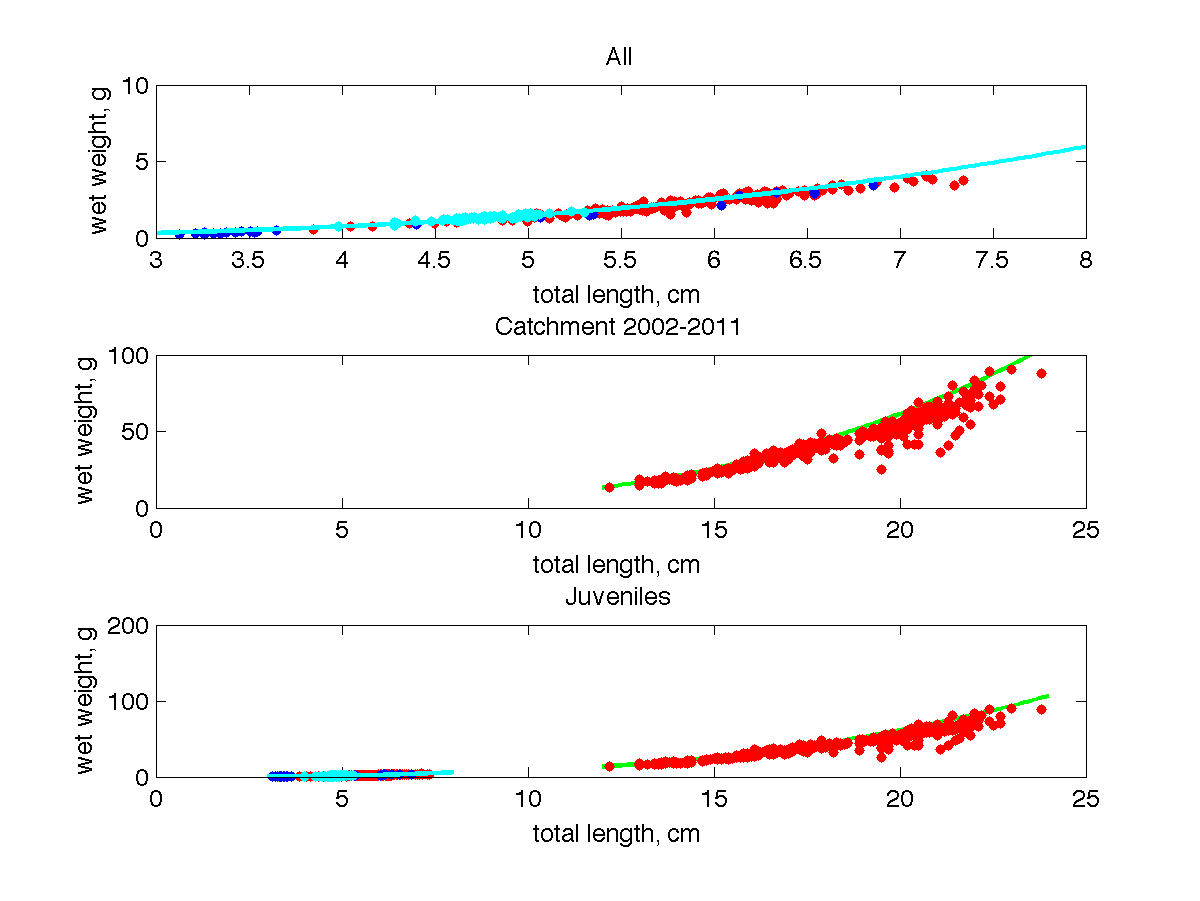
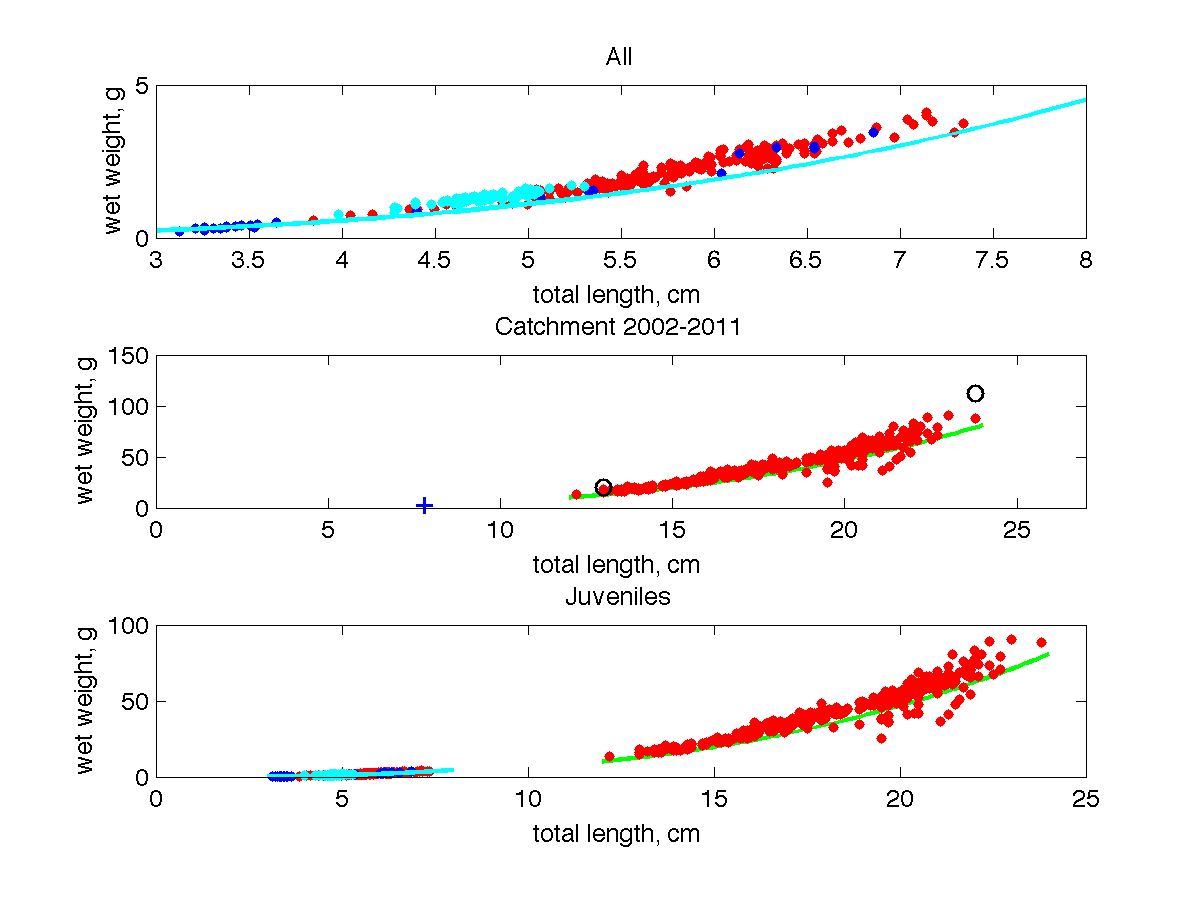
update of mydata

diff --git a/sardina_pilchardus_std/parscomp_st.m b/sardina_pilchardus_std/parscomp_st.m
@@ -1,0 +1,134 @@
+%% parscomp_st
+% computes compound parameters from primary parameters
+
+%%
+function cp = parscomp_st(par, chem)
+  % created 2013/07/08 by Bas Kooijman; modified 2015/01/17 Goncalo Marques
+  % modified 2015/04/25 Starrlight, Bas Kooijman (kap_X_P replaced by kap_P)
+  
+  %% Syntax
+  % cp = <../parscomp_st.m * parscomp_st*> (par, chem)
+  
+  %% Description
+  % Computes compound parameters from primary parameters that are frequently just
+  %
+  % Input
+  %
+  % * par : structure with values of primary parameters
+  % * chem : structure with values of chemical indices
+  %  
+  % Output
+  %
+  % * cp : structure with scaled quantities and compound parameters
+
+v2struct(par); v2struct(chem); % convert structures to variables
+
+if ~exist('p_Am','var')
+  p_Am = z * p_M/ kap;        % J/d.cm^2, {p_Am} spec assimilation flux
+end
+
+% -------------------------------------------------------------------------
+% Molecular weights:
+w_O = n_O' * [12; 1; 16; 14]; % g/mol, mol-weights for (unhydrated)  org. compounds
+w_X = w_O(1);
+w_V = w_O(2);
+%w_E = w_O(3);
+w_P = w_O(4);
+
+% -------------------------------------------------------------------------
+% Conversions and compound parameters cp
+
+M_V     = d_V/ w_V;            % mol/cm^3, [M_V], volume-specific mass of structure
+y_V_E   = mu_E * M_V/ E_G;     % mol/mol, yield of structure on reserve
+y_E_V   = 1/ y_V_E;            % mol/mol, yield of reserve on structure
+k_M     = p_M/ E_G;            % 1/d, somatic maintenance rate coefficient
+k       = k_J/ k_M;            % -, maintenance ratio
+E_m     = p_Am/ v;             % J/cm^3, reserve capacity [E_m]
+m_Em    = y_E_V * E_m / E_G;   % mol/mol, reserve capacity
+g       = E_G/ kap/ E_m ;      % -, energy investment ratio
+L_m     = v/ k_M/ g;           % cm, maximum length
+L_T     = p_T/ p_M ;           % cm, heating length (also applies to osmotic work)
+l_T     = L_T/ L_m;            % - , scaled heating length
+w       = m_Em * w_E * d_E/ d_V/ w_V; % -, contribution of ash free dry mass of reserve to total ash free dry biomass
+J_E_Am  = p_Am/ mu_E;          % mol/d.cm^2, {J_EAm}, max surface-spec assimilation flux
+
+if exist('kap_X','var') == 1
+y_E_X   = kap_X * mu_X/ mu_E;  % mol/mol, yield of reserve on food
+y_X_E   = 1/ y_E_X;            % mol/mol, yield of food on reserve
+p_Xm    = p_Am/ kap_X;         % J/d.cm^2, max spec feeding power
+J_X_Am  = y_X_E * J_E_Am;      % mol/d.cm^2, {J_XAm}, max surface-spec feeding flux
+end
+
+if exist('kap_P', 'var') == 1
+y_P_X   = kap_P * mu_X/ mu_P;  % mol/mol, yield of faeces on food 
+y_X_P   = 1/ y_P_X;            % mol/mol, yield of food on faeces
+end
+
+if exist('kap_P', 'var') == 1 && exist('kap_X', 'var') == 1
+y_P_E   = y_P_X/ y_E_X;          % mol/mol, yield of faeces on reserve
+%  Mass-power couplers
+  eta_XA = y_X_E/ mu_E;          % mol/J, food-assim energy coupler
+  eta_PA = y_P_E/ mu_E;          % mol/J, faeces-assim energy coupler
+  eta_VG = y_V_E/ mu_E;          % mol/J, struct-growth energy coupler
+  eta_O = [  -eta_XA   0         0;         % mol/J, mass-energy coupler
+	               0   0         eta_VG;    % used in: J_O = eta_O * p
+	          1/mu_E   -1/mu_E   -1/mu_E;
+	          eta_PA   0         0]; 
+end
+
+J_E_M   = p_M/ mu_E;          % mol/d.cm^3, [J_EM]
+J_E_T   = p_T/ mu_E;          % mol/d.cm^2, {J_ET}
+j_E_M   = k_M * y_E_V;        % mol/d.mol, spec somatic  maint costs
+j_E_J   = k_J * y_E_V;        % mol/d.mol, spec maturity maint costs
+kap_G   = mu_V * M_V/ E_G;    % -, growth efficiency
+E_V     = d_V * mu_V/ w_V;    % J/cm^3, [E_V] volume-specific energy of structure
+
+if exist('F_m','var') == 1
+K       = J_X_Am/ F_m;        % c-mol X/l, half-saturation coefficient
+end
+
+% -------------------------------------------------------------------------
+% Scaled maturity
+
+par_names = fields(par);
+mat_lev = par_names(strncmp(par_names, 'E_H', 3));
+mat_ind = strrep(mat_lev, 'E_H', '');  % maturity levels' indices
+
+for i = 1:length(mat_ind)
+  stri = mat_ind{i};
+  eval(['M_H', stri, '= E_H', stri, '/ mu_E;']);              % mmol, maturity at level i
+  eval(['U_H', stri, '= E_H', stri, '/ p_Am;']);              % cm^2 d, scaled maturity at level i
+  eval(['V_H', stri, '= U_H', stri, '/ (1 - kap);']);         % cm^2 d, scaled maturity at level i
+  eval(['v_H', stri, '= V_H', stri, '* g^2 * k_M^3/ v^2;']);  % -, scaled maturity density at level i
+  eval(['u_H', stri, '= U_H', stri, '* g^2 * k_M^3/ v^2;']);  % -, scaled maturity density at level i
+end
+
+% -------------------------------------------------------------------------
+% pack output:
+
+cp = v2struct(p_Am, w_X, w_V, w_E, w_P, M_V, y_V_E, y_E_V, ...
+    k_M, k, E_m, m_Em, g, L_m, L_T, l_T, w, ...
+    J_E_Am, J_E_M, J_E_T, j_E_M, j_E_J, kap_G, E_V);
+
+nameOfStruct2Update = 'cp';
+
+for i = 1:length(mat_ind)
+  stri = mat_ind{i};
+  eval(['cp = v2struct(M_H', stri, ', U_H', stri, ', V_H', stri, ', v_H', stri, ', u_H', stri, ', nameOfStruct2Update);']);
+end
+
+if exist('kap_P', 'var') == 1
+    cp = v2struct(y_P_X, y_X_P, nameOfStruct2Update);
+end
+
+if exist('kap_X', 'var') == 1
+    cp = v2struct(y_E_X, y_X_E, p_Xm, J_X_Am, nameOfStruct2Update);
+end
+
+if exist('kap_P', 'var') == 1 && exist('kap_X', 'var') == 1
+    cp = v2struct(y_P_E, eta_XA, eta_PA, eta_VG, eta_O, nameOfStruct2Update);
+end
+
+if exist('F_m', 'var') == 1
+    cp = v2struct(K, nameOfStruct2Update);                          
+end

diff --git a/sardina_pilchardus_std/mydata_Sardina_pilchardus.m b/sardina_pilchardus_std/mydata_Sardina_pilchardus.m
@@ -91,7 +91,9 @@ data.Wd0 = 3e-5;  units.Wd0 = 'g';    label.Wd0 = 'egg dry weight';    bibkey.Wd
 % Wd0 = 18 to 40 microg dry weight - see Cristina Nunes
 data.E0 = data.Wd0 * 29e3;  units.E0 = 'J';    label.E0 = 'egg energy content';    bibkey.E0 = {'Lask1962';'Nunes2015'} ;
 % Energy density of an egg between 20 and 30kJ /g dry weight Kalmer 2005
-% 
+%% !! should be consistent with <E> = mu_E/w_E
+ 
+
 % uni-variate data
 %------------------
 % Mene2003 - Chap. 5
@@ -1128,7 +1130,7 @@ LW_ad   = [ 12.2    14      0.63
             22.4	108    18.86];
 data.LW_ad(:,1) = LW_ad(:,1);
 data.LW_ad(:,2) = LW_ad(:,2) - LW_ad(:,3);          % remove the gonad 
-units.LW_ad = {'d', 'cm'};     label.LW_ad = {'total length', 'wet weight without gonads'};  bibkey.LW_ad = '';
+units.LW_ad = {'d', 'cm'};     label.LW_ad = {'total length', 'wet weight without gonads'};  bibkey.LW_ad = 'IPMA';
   temp.LW_ad = T_C + 15;  % K, temperature [LAURE: which temp? should we set it as a parameter?]
       
 
@@ -1165,6 +1167,7 @@ weight.tdw = 100 * weight.tdw;
       eval(['weight.', nm{i},' = 10 * weight.', nm{i}, ';']);
     end
  end
+ weight.Ri = 20 * weight.Ri;
  
 % uni-variate data: 
  weight.tL_juv1 = 10 * weight.tL_juv1;
@@ -1173,13 +1176,13 @@ weight.tdw = 100 * weight.tdw;
  weight.tL_juv4 = 10 * weight.tL_juv4;
  weight.tL_juv5 = 10 * weight.tL_juv5;
  weight.tL_juv6 = 10 * weight.tL_juv6;
- weight.tL_ad_f = 100 * weight.tL_ad_f ;    
+ weight.tL_ad_f = 10 * weight.tL_ad_f ;    
  %weight.tL_ad_m =  100 * weight.tL_ad_m;   
  weight.LW_juv4 = 10 * weight.LW_juv4;
  weight.LW_juv5 = 10 * weight.LW_juv5;
  weight.LW_juv6 = 10 * weight.LW_juv6;
- weight.LW_ad =  10  * weight.LW_ad;    
- weight.tE =  100  * weight.tE;    
+ weight.LW_ad =  100  * weight.LW_ad;    
+ weight.tE =  200  * weight.tE;    
 
 
 %% set pseudodata and respective weights
@@ -1190,11 +1193,11 @@ weight.tdw = 100 * weight.tdw;
 % the pseudodata and respective weights were set automatically with the function setpseudodata
 % if one wants to ovewrite one of the values it should always present an explanation
 % example:
-data.psd.kap_G = 0.81; 
-weight.psd.kap_G = 5 * weight.psd.kap_G;  % to correspond to old mydata_Sardina_pilchardus                 
+%data.psd.kap_G = 0.81; 
+%weight.psd.kap_G = 5 * weight.psd.kap_G;  % to correspond to old mydata_Sardina_pilchardus                 
 
 data.psd_dE = 0.4;      units.psd_dE = 'g/cm^3';    label.psd_dE = 'density of reserve';        bibkey.psd_dE = 'Fill';    
-weight.psd_dE = 100 * 1 ./ data.psd_dE^2;
+weight.psd_dE = 50 * 1 ./ data.psd_dE^2;
 
  
 %% pack data and txt_data for output

diff --git a/sardina_pilchardus_std/results_Sardina_pilchardus.m b/sardina_pilchardus_std/results_Sardina_pilchardus.m
@@ -115,10 +115,13 @@ function results_Sardina_pilchardus(txt_par, par, chem, metapar, txt_data, data)
   title('Mene2003')
 
   subplot(2,3,5)
+  hold on
+  plot(data.ap, data.Lp, 'ok', Prd_data.ap, Prd_data.Lp, '+b')
+  plot(data.am, data.Li, 'ok', Prd_data.am, Prd_data.Li, '+b')
   plot(tL_ad_f(:,1), tL_ad_f(:,2), '.k', tLad, ELad, 'k')
   xlabel('age, d')
   ylabel('length, cm')
-  axis([0 2200 0 27])
+  axis([0 Prd_data.am 0 27])
   title('Silv')
  
   subplot(2,3,6)
@@ -152,12 +155,15 @@ function results_Sardina_pilchardus(txt_par, par, chem, metapar, txt_data, data)
 
   
   subplot(3,1,2)
+  hold on
   plot(L, EW, 'g', LW_ad(:,1), LW_ad(:,2), '.r', 'markersize', 15, 'linewidth', 2)
+  plot(data.Lp, data.Wwp, 'ok', Prd_data.Lp, Prd_data.Wwp, '+b', 'markersize', 8, 'linewidth', 1.5)
+  plot(data.Li, data.Wwi, 'ok', Prd_data.Li, Prd_data.Wwi, '+b','markersize', 8, 'linewidth', 1.5)
   set(gca, 'Fontsize', 12, 'Box', 'on')
   xlabel('total length, cm')
   ylabel('wet weight, g')
   title('Catchment 2002-2011')
-  axis([0 25 0 100])
+  axis([0 27 0 150])
   
   subplot(3,1,3)
   hold on

diff --git a/sardina_pilchardus_std/run_Sardina_pilchardus.m b/sardina_pilchardus_std/run_Sardina_pilchardus.m
@@ -20,15 +20,15 @@ estim_options('default'); % runs estimation, uses nmregr method and filter
 %                     2 - saves data to .mat file and graphs to .png files
 %                     (prints results to screen using a customized results file when there is one)
 
-estim_options('max_step_number',1e3); % set options for parameter estimation
+estim_options('max_step_number',5e3); % set options for parameter estimation
 estim_options('max_fun_evals',5e3);  % set options for parameter estimation
 
-% estim_options('pars_init_method', 1); % from .mat
+%  estim_options('pars_init_method', 1); % from .mat
 estim_options('pars_init_method', 2); % from pars_init
 
 estim_options('results_output', 1);
 
-%estim_options('method', 'nm');
-estim_options('method', 'no')
+estim_options('method', 'nm');
+% estim_options('method', 'no')
 
 estim_pars; % run estimation

diff --git a/sardina_pilchardus_abj/mydata_Sardina_pilchardus.m b/sardina_pilchardus_abj/mydata_Sardina_pilchardus.m
@@ -90,9 +90,10 @@ data.Ri  = 1035;   units.Ri  = '#/d';  label.Ri  = 'maximum reprod rate';      b
   % for f = 0.9. guess Ri = 1150 * 0.9 = 1035;
 data.Wd0 = 0.03e-3;  units.Wd0 = 'g';    label.Wd0 = 'egg dry weight';    bibkey.Wd0 = 'Nunes2015' ;
 % Wd0 = 18 to 40 microg dry weight - see Cristina Nunes
-data.E0 = data.Wd0 * 22e3;  units.E0 = 'J';    label.E0 = 'egg energy content';    bibkey.E0 = {'Lask1962';'Nunes2015'} ;
+data.E0 = data.Wd0 * 29e3;  units.E0 = 'J';    label.E0 = 'egg energy content';    bibkey.E0 = {'Lask1962';'Nunes2015'} ;
 % Energy density of an egg between 20 and 30kJ /g dry weight Kalmer 2005
-% 
+% % !! should be consistent with <E> = mu_E/w_E
+
 % uni-variate data
 %------------------
 % Mene2003 - Chap. 5
